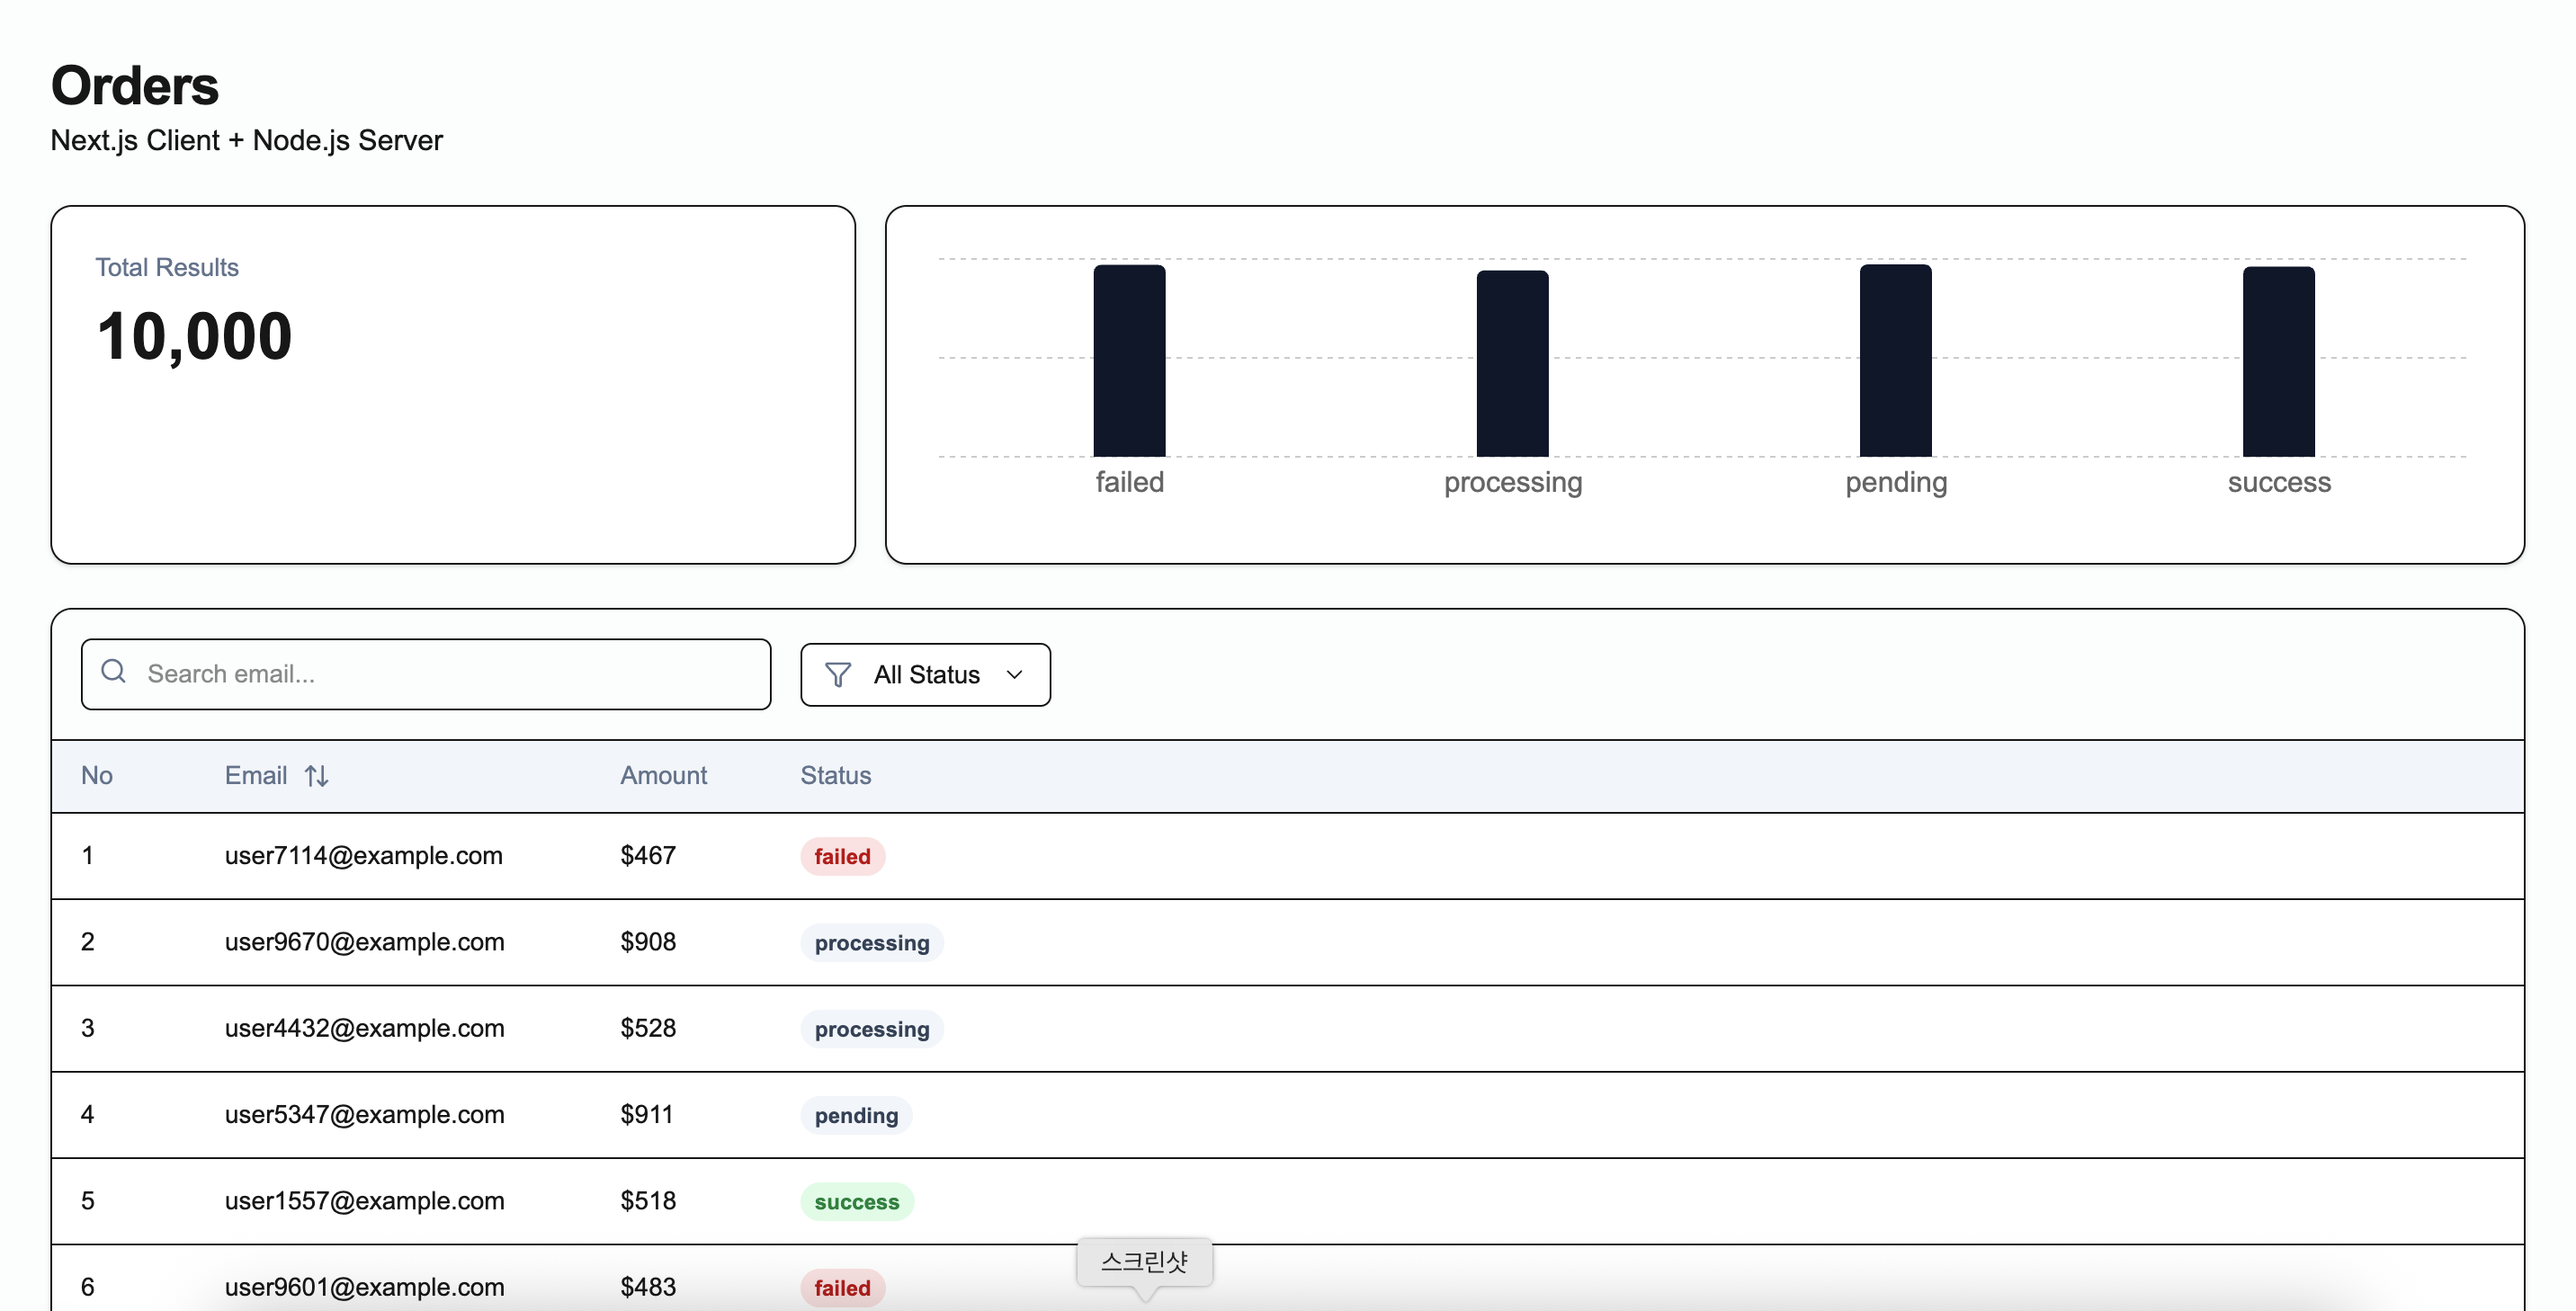
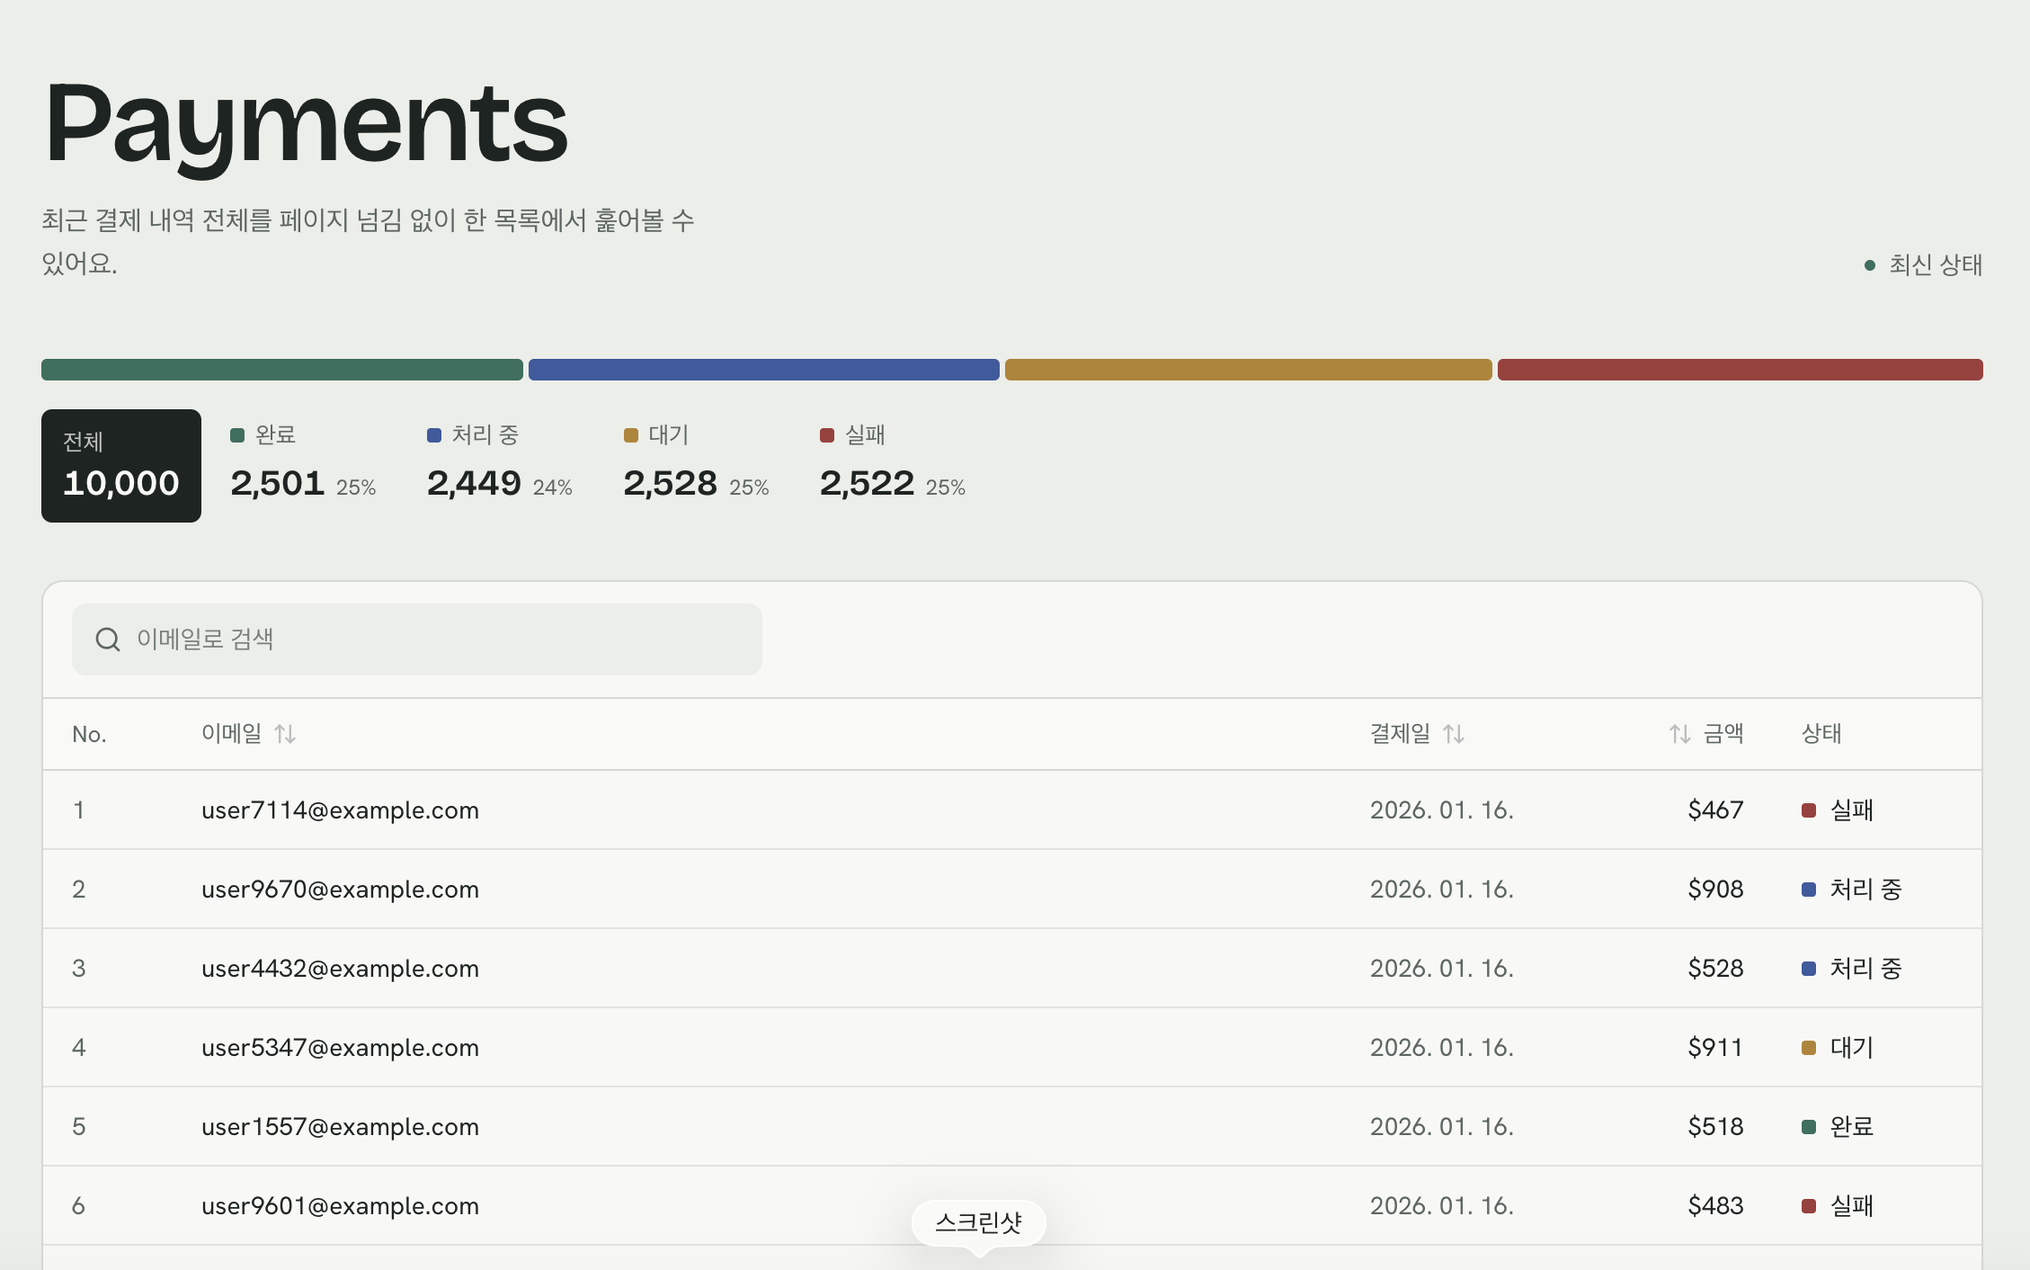
프로젝트-대시보드 섬네일 변경

diff --git a/index copy.ts b/index copy.ts
@@ -1,0 +1,40 @@
+import 'dotenv/config'
+import express from 'express';
+import next from 'next';
+import http from 'http';
+import contactRouter from './routes/contact';
+
+const dev = process.env.NODE_ENV !== 'production';
+const port = Number(process.env.PORT);
+
+console.log(process.env.NODE_ENV);
+console.log(port);
+const hostname = '0.0.0.0'; // 외부 접속 허용 
+
+const app = next({ dev, dir: './views' });
+const handle = app.getRequestHandler();
+
+app.prepare().then(() => {
+    const server = express();
+
+    server.use(express.json());
+    server.use(express.urlencoded({ extended: true }));
+
+    /** 라우트 */
+    server.use('/api/contact', contactRouter);
+
+    server.use((req, res) => {
+        return handle(req, res);
+    });
+
+    const httpServer = http.createServer(server);
+    
+    httpServer.listen(port, hostname, () => {
+        console.log(`> Ready on http://${hostname}:${port} (Everything is Enaeble)`);
+    });
+
+    httpServer.on('error', (err) => {
+        console.error('Server failed to start:', err);
+        process.exit(1);
+    });
+});
